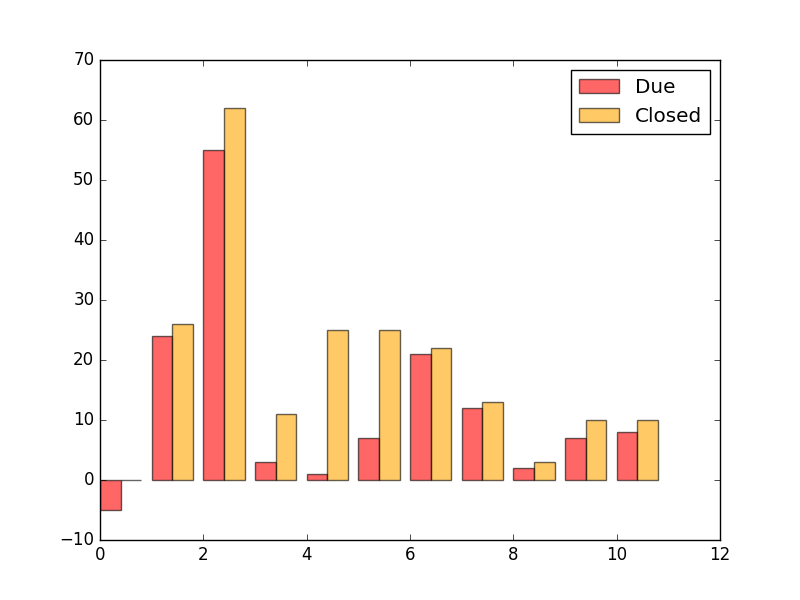
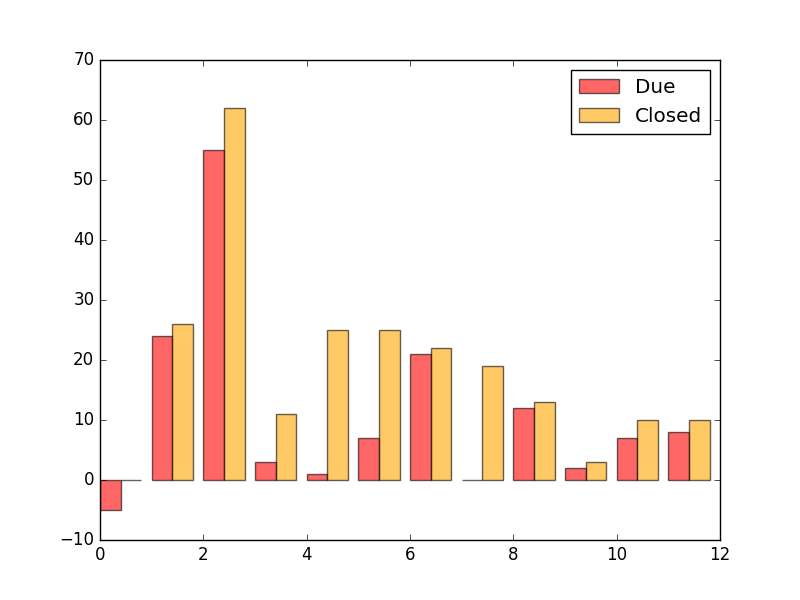
feature: plot of due and close time of  each milestone for each group. Each creation time as start poor usage - use updated data

Changed region(s): [[0.5625, 0.6, 0.9062, 0.81]]

diff --git a/BadSmell/gitable-sql.py b/BadSmell/gitable-sql.py
@@ -140,13 +140,15 @@ def dumpMilestone1(u, milestones, token, timebound):
   user = milestone['creator']['login']
 
   if due_at==None:
-    return True
+    #return True
+    due_at = created_at
   if due_at>timebound:
     return True
   if closed_at==None:
-    closed_at=timebound+1
-  if closed_at>timebound:
-    closed_at=timebound+1
+    #closed_at=timebound+1
+    closed_at = created_at
+  #if closed_at>timebound:
+    #closed_at=timebound+1
 
 
   milestoneObj = L(ident=identifier,

diff --git a/BadSmell/db_2_csv.py b/BadSmell/db_2_csv.py
@@ -35,5 +35,5 @@ def main(indir,outdir):
 
 
 if __name__ == "__main__":
-    main('./dataCollectionInDB_early/','./dataCollectionInCSV_early/')
-    main('./dataCollectionInDB_last/','./dataCollectionInCSV_last/')
+    #main('./dataCollectionInDB_early/','./dataCollectionInCSV_early/')
+    main('./dataCollectionInDB_new/','./dataCollectionInCSV_new/')

diff --git a/BadSmell/results/milestone_time/milestone_time.py b/BadSmell/results/milestone_time/milestone_time.py
@@ -5,7 +5,7 @@ import datetime
 import matplotlib.pyplot as plt
 import numpy as np
 
-indir = "../../dataCollectionInCSV_last/"
+indir = "../../dataCollectionInCSV_new/"
 
 tJan = datetime.datetime(year=2016, month=1, day=7) # time for January
 tFeb = datetime.datetime(year=2016, month=2, day=1)
